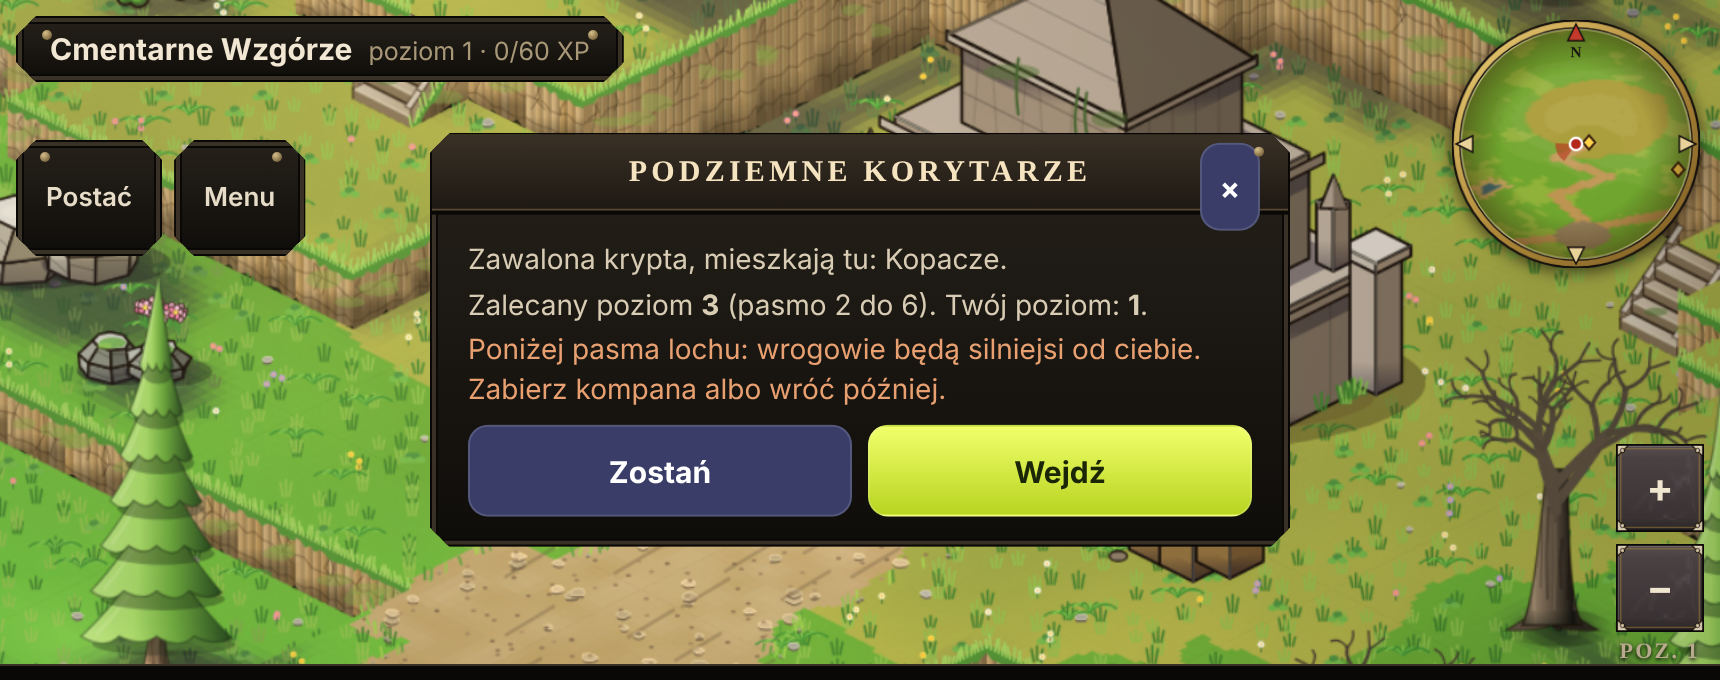
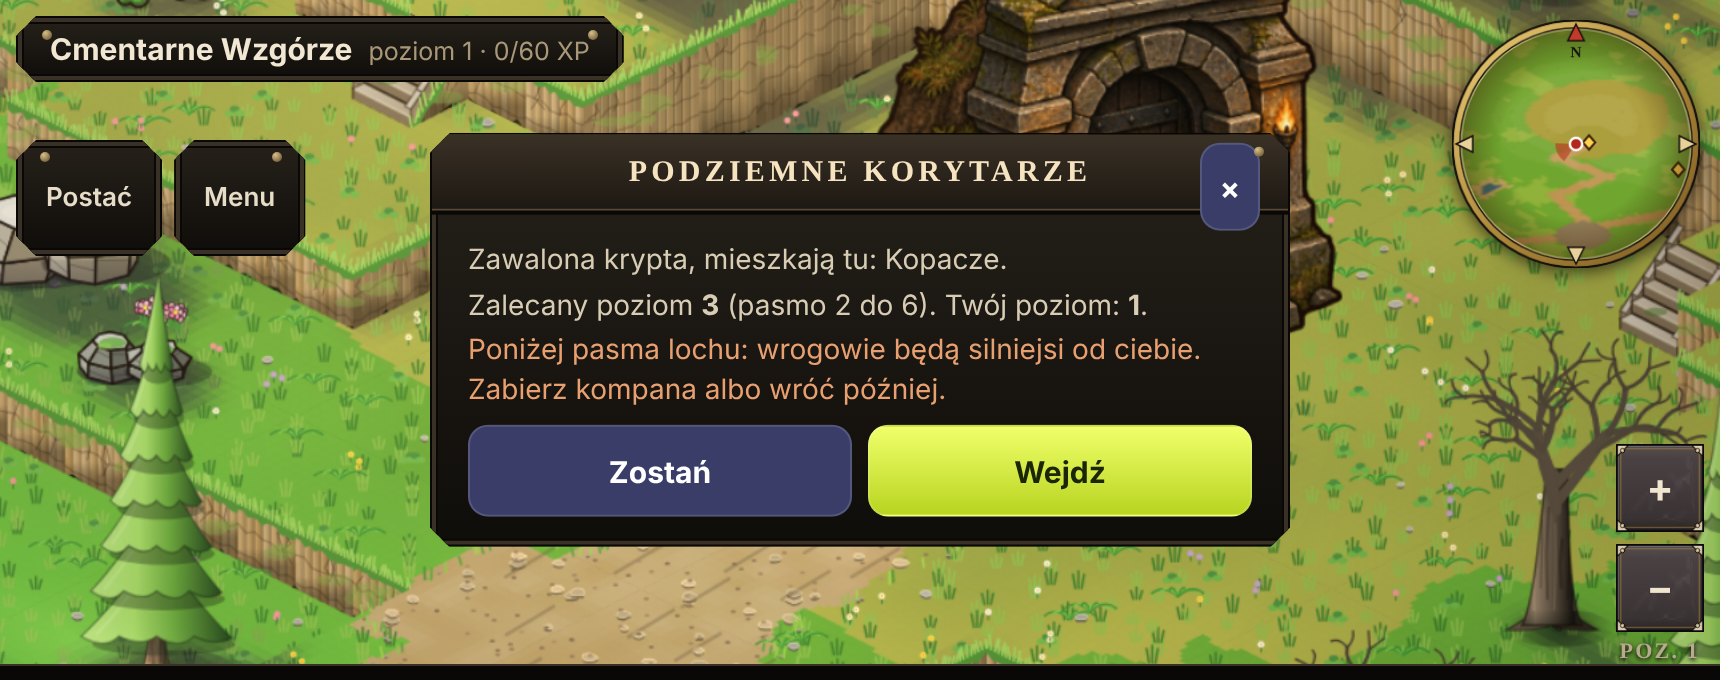
Gotowe obrazy w świecie: beczka, wejście do krypty i dąb (PNG z przezroczystością), z generatorami jako zapasem; światło z pochodni na obrazie krypty
Claude-Session: https://claude.ai/code/session_01YGgK3XekFYaLDhBRBtmmRq

Changed region(s): [[0.493, 0.0, 0.832, 0.6485], [0.6471, 0.8029, 0.7395, 0.8647]]

diff --git a/src/art/worldview.js b/src/art/worldview.js
@@ -11,6 +11,7 @@ import { drawBuilding } from './buildings.js';
 import { drawEntrance, genEntrance } from './entrances.js';
 import { genTree, drawTree } from './trees.js';
 import * as NA from './nature.js';
+import { ASSETS, loadAssets, drawAsset, assetDim } from './assets.js';
 import { lampPost, bench, barrel, crate, cart, sack, logs, well, fence } from './props.js';
 
 export const MAXZ = 8, CS = 6, SUB = 8, SHS = 12, SHB = 2, LEVELS = [0.5, 0.75, 1, 1.5, 2, 3, 4];
@@ -26,7 +27,7 @@ const SPR = { oak: [290, 300, 145, 268], swamp: [320, 320, 160, 282], pine: [210
 export class WorldView {
   constructor(world, deps = {}) {
     this.w = world; this.grid = makeGrid(); this.sprLv = new Map(); this.chunkLv = new Map(); this.lvCur = 0; this.lvPrev = 0; this.sprBudget = 99; this.shadeCache = new Map(); this.quality = { shadowRes: SHS, decals: true }; this.doc = deps.document || (typeof document !== 'undefined' ? document : null);
-    this.entSpecs = world.entrances.map((e, i) => genEntrance(i + 3, e.kind)); this.baked = 0; this.occ = buildOccluders(world); this.t = 0; this.masks = new Map(); world.buildings.forEach((b) => { b.s.noSmoke = true; }); this.lamps = this.collectLights();
+    this.entSpecs = world.entrances.map((e, i) => genEntrance(i + 3, e.kind)); this.baked = 0; this.occ = buildOccluders(world); this.imgs = loadAssets(this.doc, () => { this._lamps = null; }); this.t = 0; this.masks = new Map(); world.buildings.forEach((b) => { b.s.noSmoke = true; }); this._lamps = null;
     this.bld = new Map(); world.buildings.forEach((b) => { const k = (b.sy - 1) * N + (b.sx - 1); (this.bld.get(k) || this.bld.set(k, []).get(k)).push(b); });
     this.ent = new Map(); world.entrances.forEach((e, i) => { const k = Math.floor(e.at[1]) * N + Math.floor(e.at[0]); (this.ent.get(k) || this.ent.set(k, []).get(k)).push(i); });
   }
@@ -252,18 +253,22 @@ export class WorldView {
   }
   objectDrawer(o) {
     const sd = o.seed % 7 + 1;
+    if (o.k === 'oak' && this.imgs.dab) { const flip = sd % 2 === 1, sc = 0.88 + 0.12 * (sd % 3); return [`img:dab:${flip ? 1 : 0}:${sd % 3}`, assetDim('dab', sc), (gg, ax, ay) => drawAsset(gg, this.imgs.dab, 'dab', ax, ay, { flip, sc })]; }
+    if (o.k === 'barrel' && this.imgs.beczka) return ['img:beczka', assetDim('beczka'), (gg, ax, ay) => drawAsset(gg, this.imgs.beczka, 'beczka', ax, ay)];
     if (TREE[o.k]) { const spec = genTree(sd, o.k, o.biome || 'summer'); return [`${o.k}:${sd}:${o.biome || ''}`, SPR[o.k], (gg, ax, ay) => drawTree(gg, ax, ay, spec)]; }
     if (SMALL[o.k]) { const sc = o.sc || 1; return [`${o.k}:${sd}:${o.biome || ''}:${Math.round(sc * 4)}`, SPR[o.k], (gg, ax, ay) => SMALL[o.k](gg, ax, ay, sc, sd, o)]; }
     if (PROP[o.k]) return [`${o.k}:${sd}:${o.dir || ''}`, SPR[o.k], (gg, ax, ay) => PROP[o.k](gg, ax, ay, sd, o)];
     return null;
   }
+  get lamps() { return this._lamps || (this._lamps = this.collectLights()); }
   // źródła światła w świecie (lampy, pochodnie przy wejściach) w pikselach świata: używane w nocy i do migotania
   collectLights() {
     const out = [], w = this.w;
     for (const o of w.objects) if (o.k === 'lamp') { const p = this.pos(o.x, o.y); out.push({ x: p[0], y: p[1] - 50, r: 130, a: 0.9, ph: o.x * 7.3 + o.y }); }
     // wejścia: światło wychodzi z pochodni (płomienie na słupach przy portyku krypty) albo z dziupli jamy, a nie z całej bryły
     w.entrances.forEach((e, i) => { const p = this.pos(e.at[0], e.at[1]), sc = this.entSpecs[i].scale || 1;
-      if (e.kind === 'krypta') for (const sd of [-1, 1]) { const X = 0.894 * ((sd * 73) - 96), Y = 0.447 * ((sd * 73) + 96) - 82; out.push({ x: p[0] + X * sc, y: p[1] + Y * sc, r: 95, a: 0.95, ph: i + sd * 3.1 }); }
+      const A = ASSETS.krypta; if (e.kind === 'krypta' && this.imgs.krypta) for (const [fx, fy] of A.lights) out.push({ x: p[0] + (fx - 0.5) * A.w, y: p[1] + fy * A.h - (A.h - A.foot), r: 95, a: 0.95, ph: i + fx * 7 });
+      else if (e.kind === 'krypta') for (const sd of [-1, 1]) { const X = 0.894 * ((sd * 73) - 96), Y = 0.447 * ((sd * 73) + 96) - 82; out.push({ x: p[0] + X * sc, y: p[1] + Y * sc, r: 95, a: 0.95, ph: i + sd * 3.1 }); }
       else out.push({ x: p[0], y: p[1] - 18 * sc, r: 70, a: 0.7, ph: i }); });
     return out;
   }
@@ -332,6 +337,8 @@ export class WorldView {
   drawWithOcclusion(g, occ, scale, drawFn) {
     drawFn(); if (occ && occ.length) for (const k of occ) this.redrawTile(g, k, scale);
   }
+  // rysunek wejścia: gotowy obraz (krypta), gdy się wczytał, inaczej generator
+  entDraw(i) { const e = this.w.entrances[i]; if (e.kind === 'krypta' && this.imgs.krypta) return [`ei:${i}`, assetDim('krypta'), (gg, ax, ay) => drawAsset(gg, this.imgs.krypta, 'krypta', ax, ay)]; return [`e:${i}`, SPR[e.kind], (gg, ax, ay) => drawEntrance(gg, ax, ay, this.entSpecs[i])]; }
   // cały świat widoczny w oknie (cam: środek w px świata, view: {w,h} w px css, zoom). Najpierw cały teren (niezależna warstwa), potem wszystkie
   // przedmioty i postacie od tyłu do przodu; wyższy teren zasłania tylko te przedmioty, które faktycznie leżą za nim.
   draw(g, cam, view, zoom, dpr, t, entities = []) {
@@ -363,8 +370,8 @@ export class WorldView {
       else if (it.b) { const b = it.b, z = heightAt(w, b.sx - 0.5, b.sy - 0.5), [sx, sy] = this.proj(b.sx, b.sy, z); if (b._occ === undefined) b._occ = this.occluderTiles(b.sx, b.sy, z);
         g.globalAlpha = this.fadeAlpha(b, `b:${b.s.seed}`, [sx - SPR.budynek[2], sy - SPR.budynek[3], SPR.budynek[0], SPR.budynek[1]], it.d - 1.2, player); this.drawWithOcclusion(g, b._occ, scale, () => this.drawSprite(g, `b:${b.s.seed}`, SPR.budynek, (gg, ax, ay) => { gg.save(); gg.translate(ax, ay); gg.scale(b.k, b.k); drawBuilding(gg, 0, 0, b.s); gg.restore(); }, sx, sy, scale)); g.globalAlpha = 1;
         if (this.quality.smoke) this.drawSmoke(g, b, sx, sy, t); }
-      else if (it.en !== undefined) { const i = it.en, e = w.entrances[i], [sx, sy] = this.pos(e.at[0], e.at[1]); if (e._occ === undefined) e._occ = this.occluderTiles(e.at[0], e.at[1], heightAt(w, e.at[0], e.at[1]));
-        g.globalAlpha = this.fadeAlpha(e, `e:${i}`, [sx - SPR[e.kind][2], sy - SPR[e.kind][3], SPR[e.kind][0], SPR[e.kind][1]], it.d - 1.5 - 1.2, player); this.drawWithOcclusion(g, e._occ, scale, () => this.drawSprite(g, `e:${i}`, SPR[e.kind], (gg, ax, ay) => drawEntrance(gg, ax, ay, this.entSpecs[i]), sx, sy, scale)); g.globalAlpha = 1; }
+      else if (it.en !== undefined) { const i = it.en, e = w.entrances[i], [sx, sy] = this.pos(e.at[0], e.at[1]), ed = this.entDraw(i); if (e._occ === undefined) e._occ = this.occluderTiles(e.at[0], e.at[1], heightAt(w, e.at[0], e.at[1]));
+        g.globalAlpha = this.fadeAlpha(e, ed[0], [sx - ed[1][2], sy - ed[1][3], ed[1][0], ed[1][1]], it.d - 1.5 - 1.2, player); this.drawWithOcclusion(g, e._occ, scale, () => this.drawSprite(g, ed[0], ed[1], ed[2], sx, sy, scale)); g.globalAlpha = 1; }
       else { const e = it.e, occ = this.occluderTiles(e.x, e.y, heightAt(w, e.x, e.y)); this.drawWithOcclusion(g, occ, scale, () => e.draw(g, ...this.pos(e.x, e.y))); }
     }
   }

diff --git a/src/art/assets.js b/src/art/assets.js
@@ -1,0 +1,19 @@
+// Gotowe obrazy (generowane poza grą) dla wybranych obiektów. Reszta świata dalej jest rysowana kodem, a każdy obiekt tutaj ma kod jako zapas:
+// dopóki obraz się nie wczyta (albo gdy go brak, np. w testach), używany jest generator.
+// w, h: rozmiar obrazu w pikselach świata; foot: ile pikseli od dołu obrazu leży punkt podstawy; lights: punkty światła jako ułamki obrazu [x, y].
+export const ASSETS = {
+  beczka: { src: 'img/beczka.png', w: 28, h: 37, foot: 3 },
+  dab: { src: 'img/dab.png', w: 190, h: 221, foot: 6 },
+  krypta: { src: 'img/krypta.png', w: 300, h: 362, foot: 14, lights: [[0.384, 0.633], [0.88, 0.542]] },
+};
+export function loadAssets(doc, onLoad) {
+  const out = {}; if (!doc || !doc.defaultView || !doc.defaultView.Image) return out;
+  for (const [k, a] of Object.entries(ASSETS)) { const im = new doc.defaultView.Image(); im.onload = () => { out[k] = im; onLoad && onLoad(k); }; im.src = a.src; }
+  return out;   // klucz pojawia się dopiero po wczytaniu
+}
+// rysuje obraz do podstawy (0,0) w skali świata, opcjonalnie odbity w poziomie
+export function drawAsset(g, im, key, ax, ay, { flip = false, sc = 1 } = {}) {
+  const a = ASSETS[key], w = a.w * sc, h = a.h * sc;
+  g.save(); g.translate(ax, ay + a.foot * sc); if (flip) g.scale(-1, 1); g.imageSmoothingEnabled = true; g.imageSmoothingQuality = 'high'; g.drawImage(im, -w / 2, -h, w, h); g.restore();
+}
+export const assetDim = (key, sc = 1) => { const a = ASSETS[key], w = a.w * sc, h = a.h * sc; return [Math.ceil(w) + 4, Math.ceil(h + a.foot * sc) + 4, Math.ceil(w / 2) + 2, Math.ceil(h) + 2]; };
